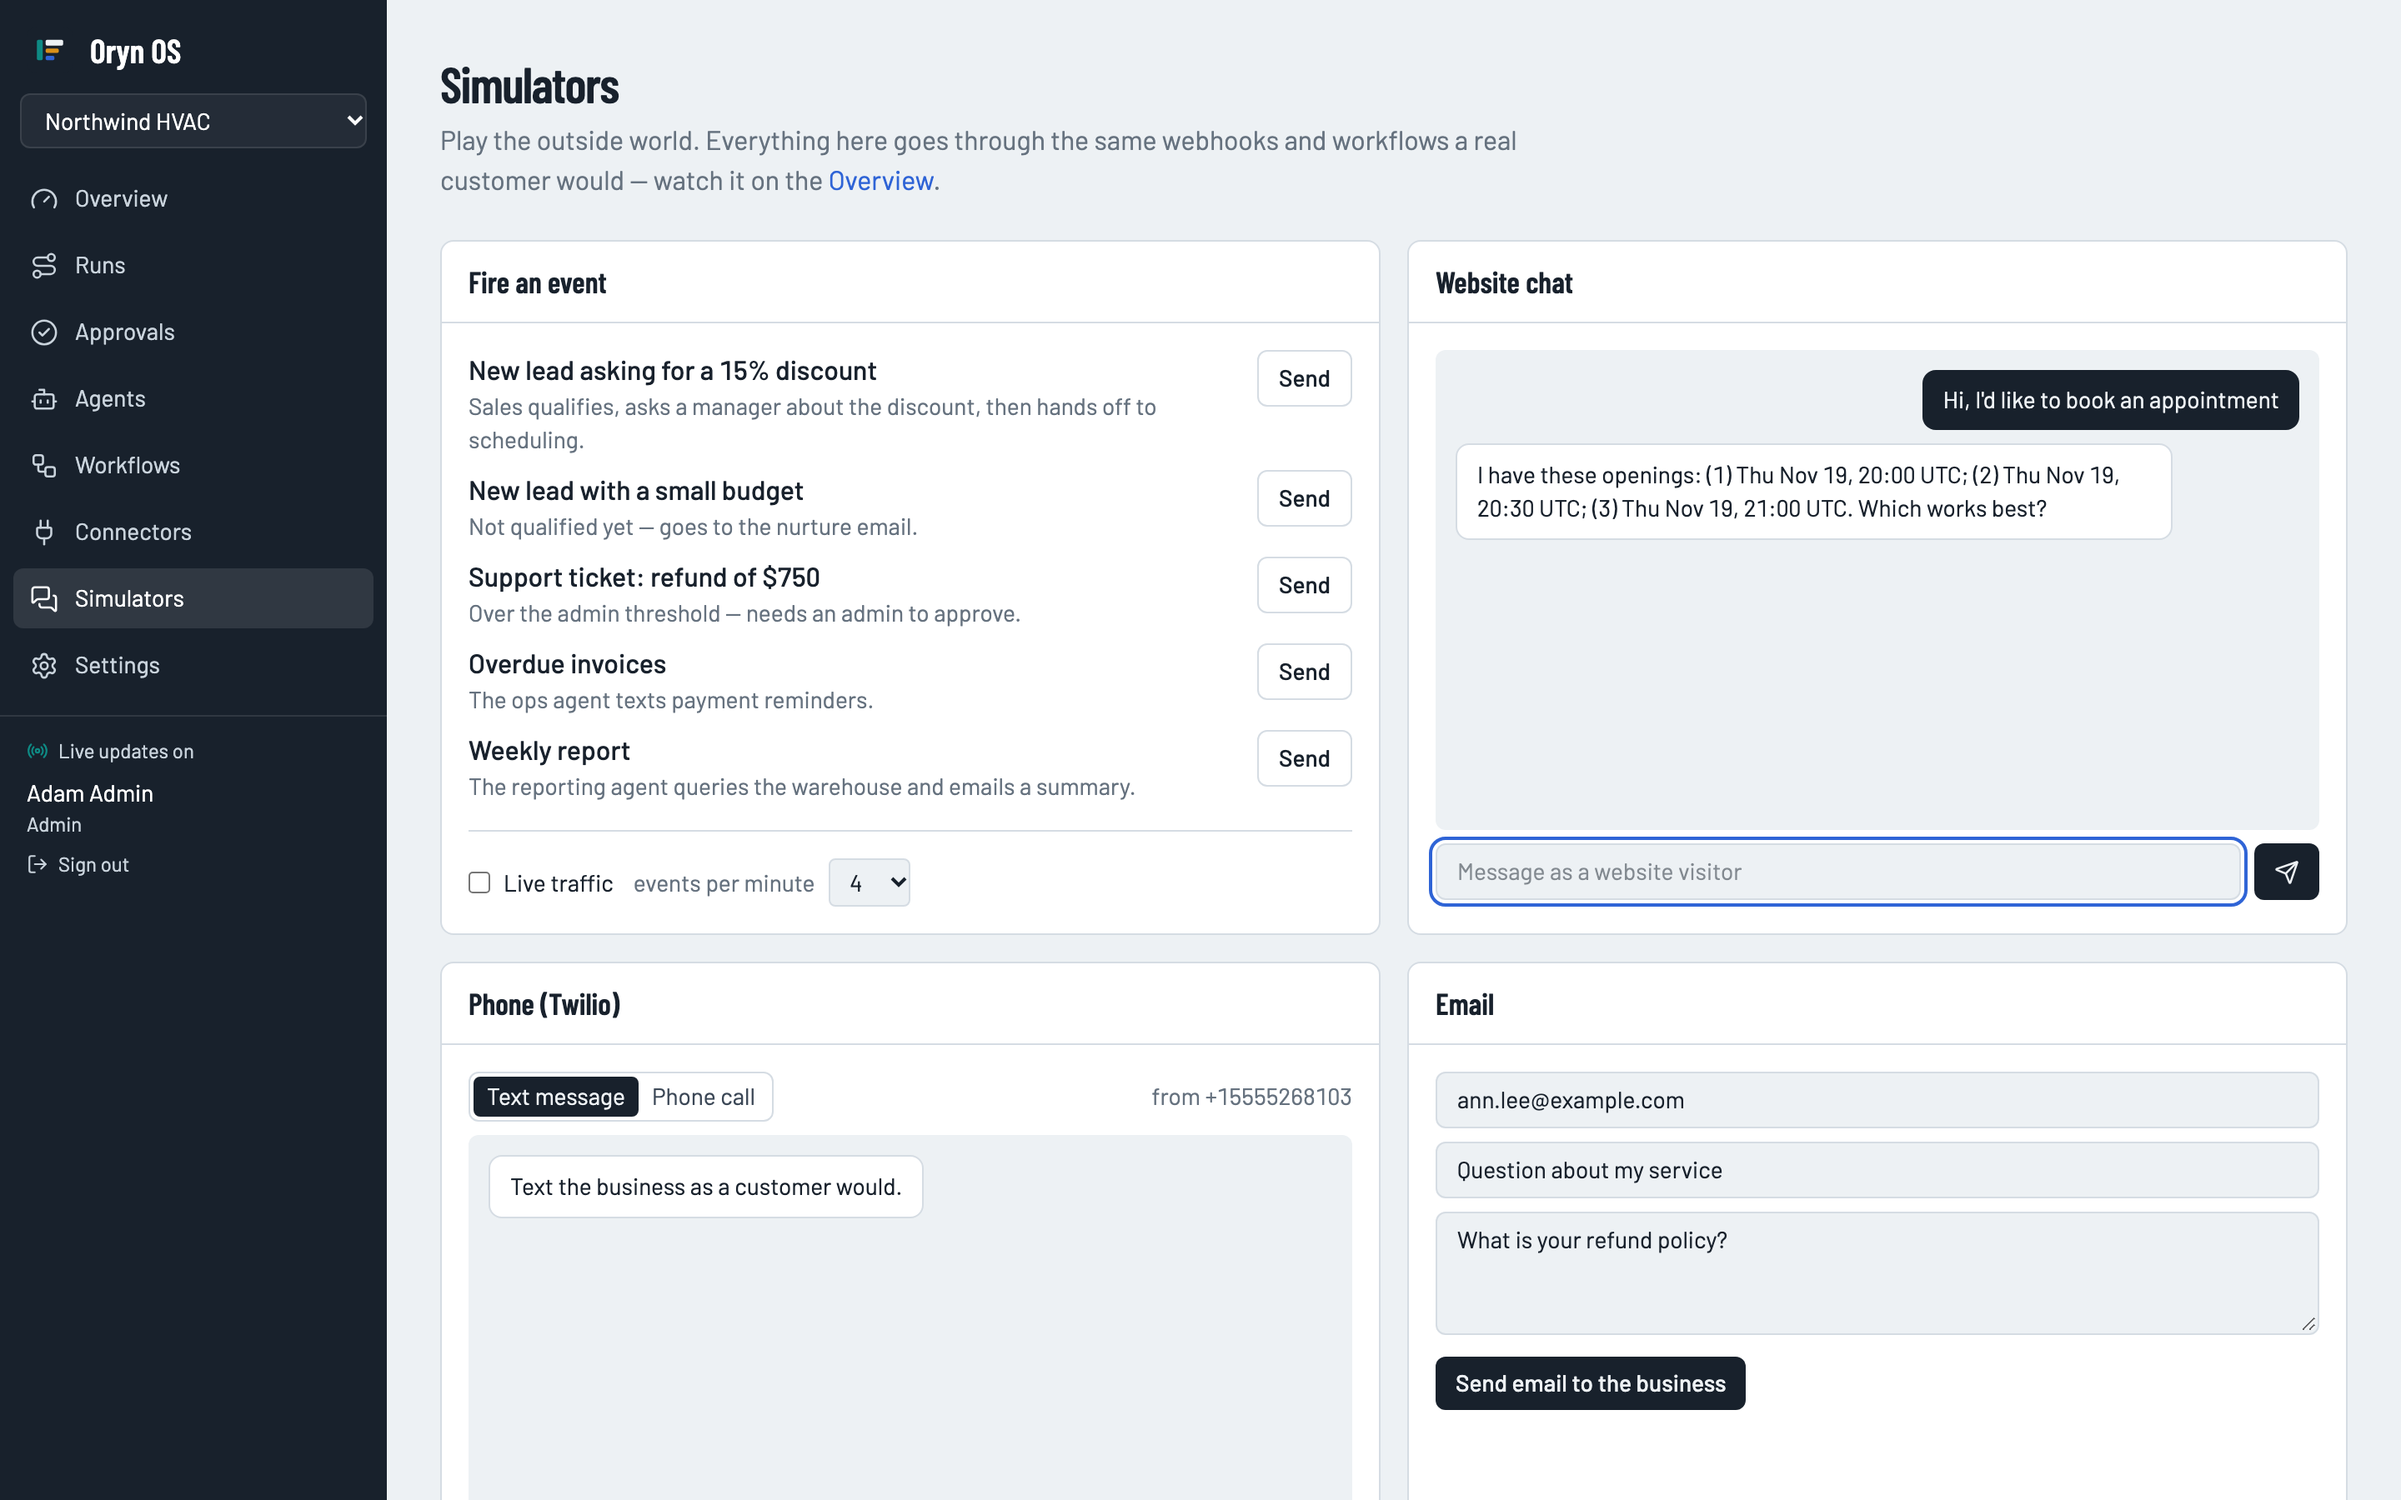
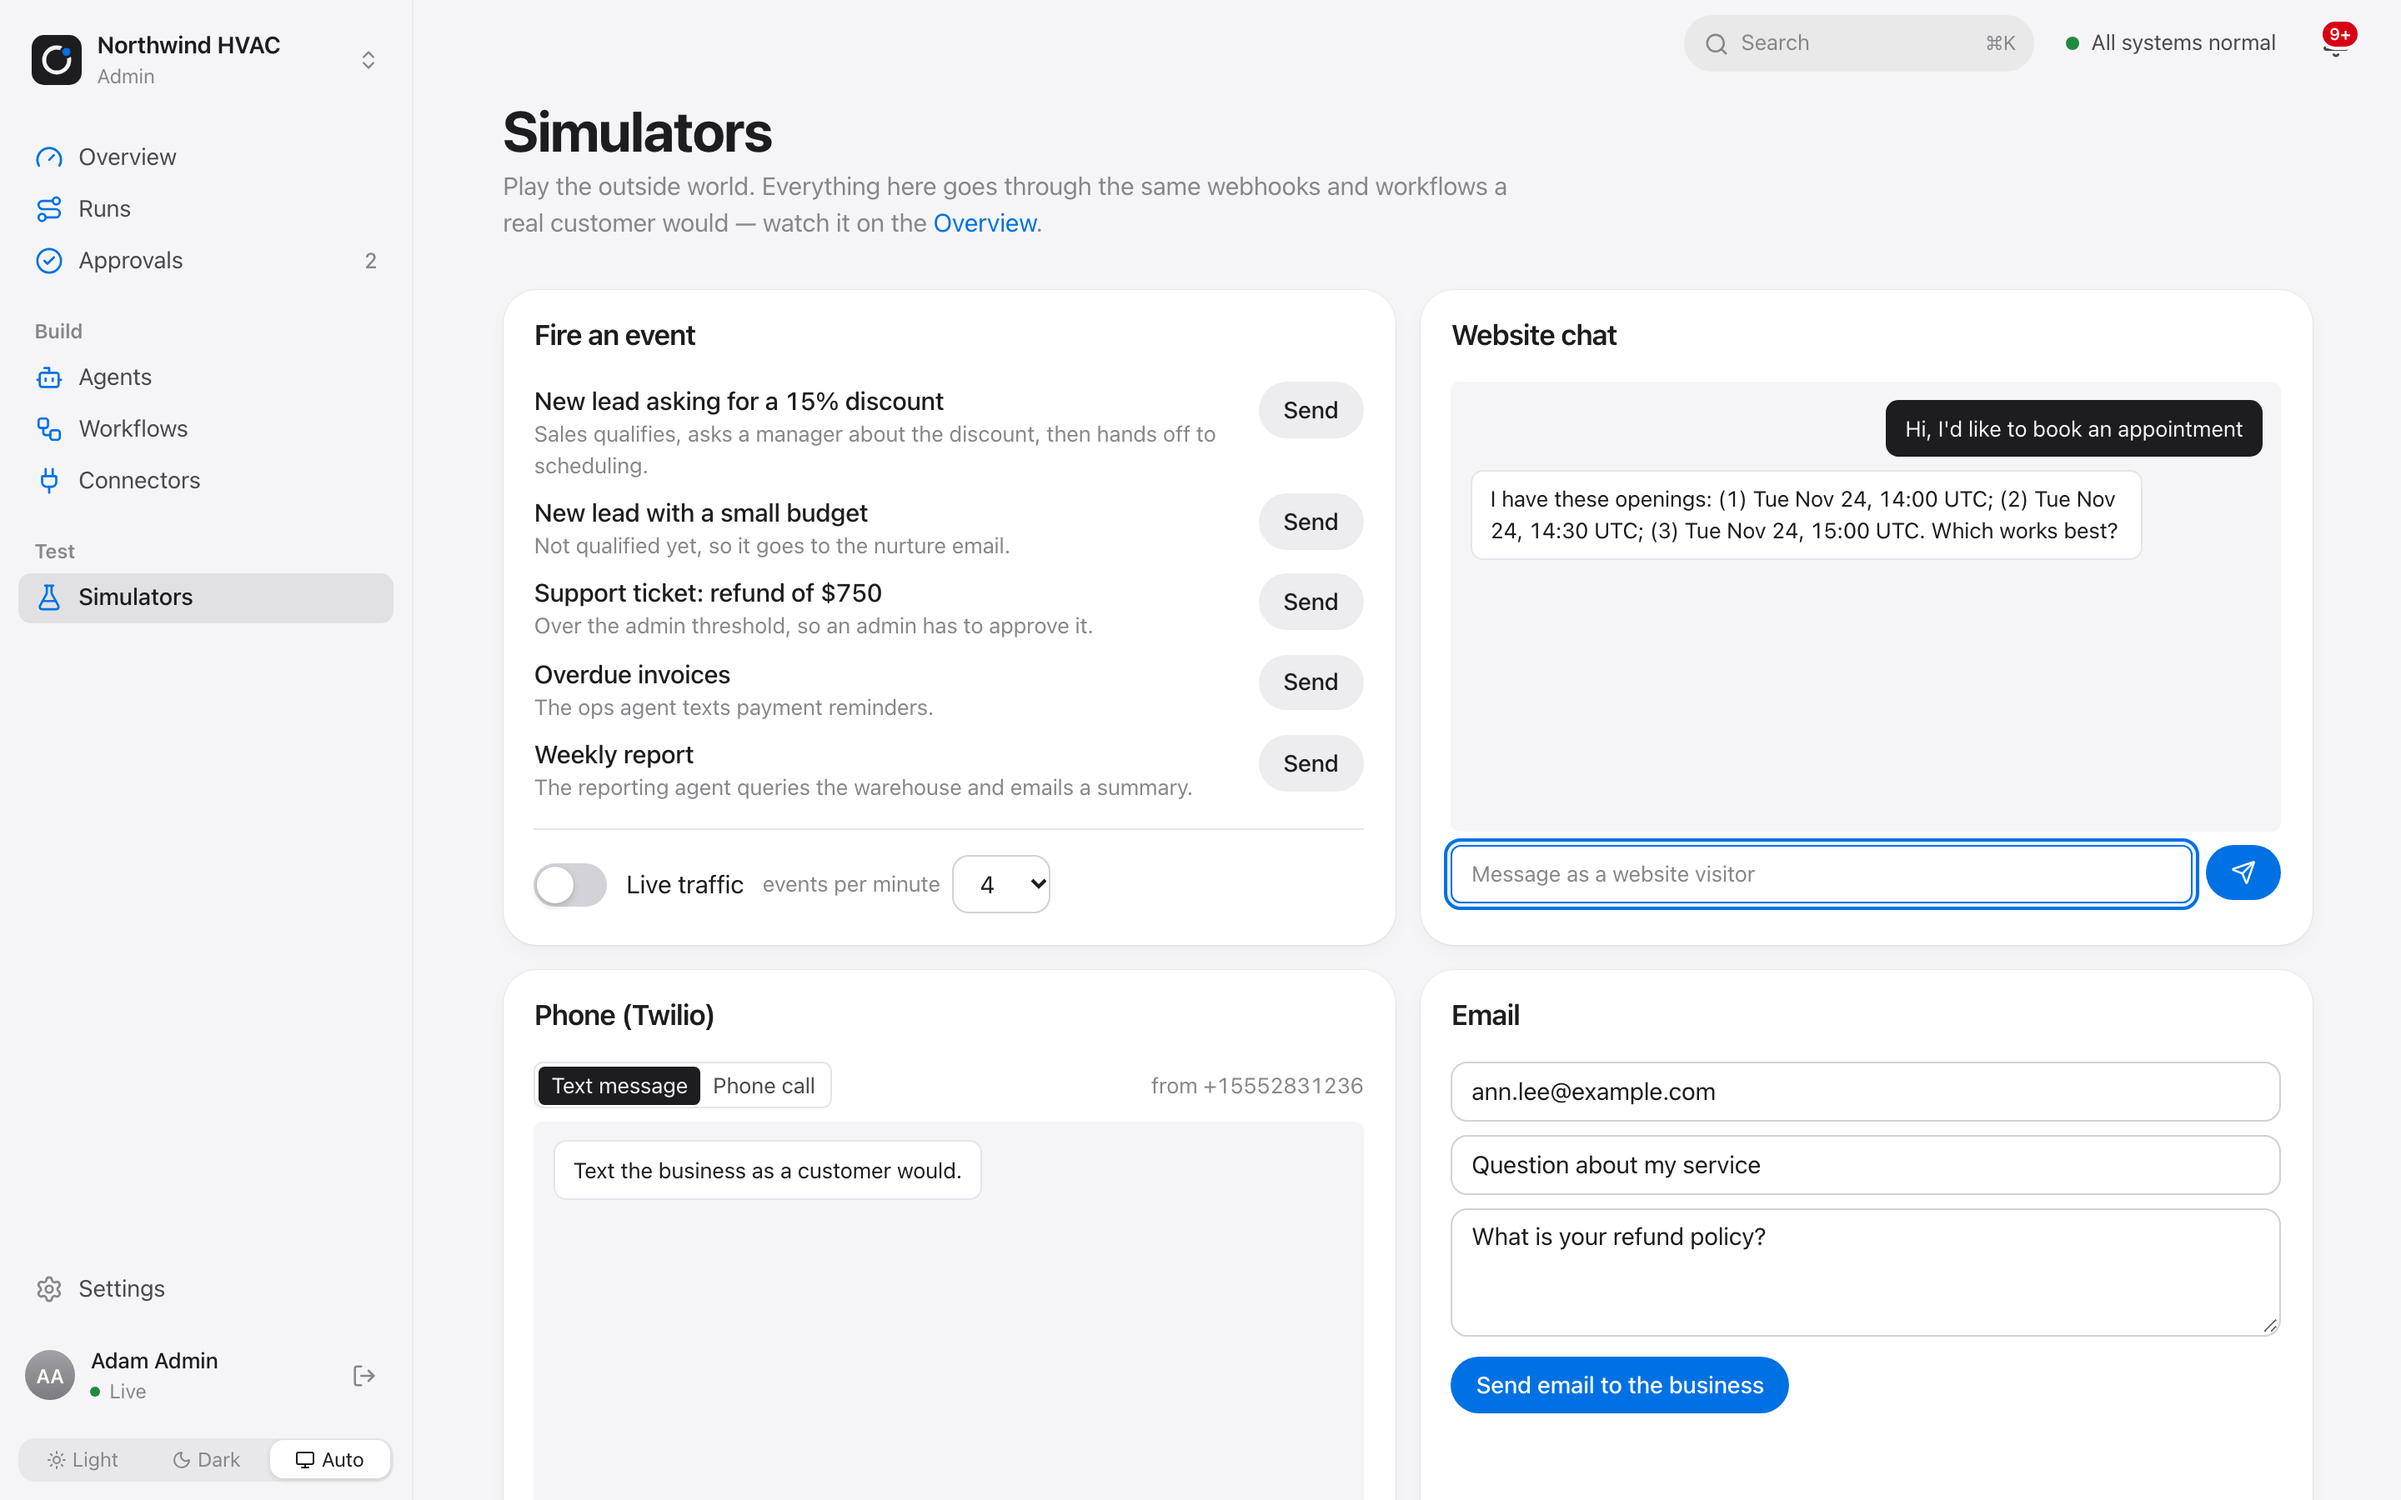
docs: new screenshots and README for the redesign and operator tools

diff --git a/README.md b/README.md
@@ -10,6 +10,8 @@ anything risky happens.
 It runs **fully offline with one command and no API keys**. Real providers (Claude, Twilio, SMTP)
 switch on with environment variables.
 
+![Oryn OS landing page with the interactive demo waiting for an approval](docs/screenshots/landing.png)
+
 ![Overview dashboard](docs/screenshots/overview-light.png)
 
 ## Quickstart
@@ -20,7 +22,8 @@ Requirements: Docker (with Compose v2). Nothing else.
 make up
 ```
 
-Then open **http://localhost:5173** and sign in as `owner@northwind.test` / `oryn-demo`.
+Then open **http://localhost:5173**. The landing page runs a small interactive demo; *Open the live
+demo* signs you in (`owner@northwind.test` / `oryn-demo`).
 
 `make up` builds the images, migrates the database, starts Postgres, Redis, Temporal, the API, the
 worker and the web app, and starts generating **two weeks of history by actually running the
@@ -59,7 +62,9 @@ Password for every demo account: `oryn-demo` (local demo only).
 | **MCP** | An MCP server exposes a tenant's tools to any MCP client, with the same approval controls. |
 | **Tenant isolation** | Postgres row-level security on every tenant table; the runtime database role cannot bypass it, cannot change its own tenant setting, and the agents' SQL tool runs under a narrower read-only role. |
 | **RBAC and audit** | viewer, operator, admin and owner roles; role-gated approvals; no self-approval; an audit log of privileged actions. |
-| **Central dashboard** | Live run board, execution traces with tokens/cost/retries, approvals inbox, completion rates, cost, and business impact (meetings, pipeline, hours saved, return on model cost). |
+| **Central dashboard** | Live route board (each run drawn as the agents it passed through), execution traces with a time axis, tokens, cost and retries, an approvals queue, completion rates, cost, and business impact (meetings, pipeline, hours saved, return on model cost). |
+| **Operator tools** | Every overview metric is compared with the previous period of the same length (relative change for amounts, percentage points for rates, and lower-is-better for latency). Any finished run can be **re-run** from the event that started it, on its workflow's current version, idempotently per `Idempotency-Key` and audited. An **activity feed** collects failures, escalations, approval requests and decisions, and outcomes, with unread state. A **system status** check reports Postgres, Redis, Temporal and whether workers are polling, with latencies. |
+| **Keyboard-first UI** | A command menu (`⌘K`) that searches runs, pending approvals, agents and workflows server-side and runs actions (fire a test event, switch workspace, change theme); `G` then a letter to jump between pages; `J`/`K` through lists; `A`/`R` to approve or reject; `?` lists every shortcut. Light and dark themes. The dashboard uses the system typeface (SF Pro on Apple devices, with SF Rounded figures), grouped cards, translucent toolbars and a large title that collapses into the toolbar as you scroll. |
 
 ## Architecture
 
@@ -119,7 +124,7 @@ every message and a retry can never text a customer twice.
 
 ## Engineering
 
-- **Tests:** 239 backend tests (pytest against real Postgres and Redis; Temporal workflows on the SDK's time-skipping test server), 16 frontend tests (Vitest), and a Playwright end-to-end test of the golden path against the running stack.
+- **Tests:** 257 backend tests (pytest against real Postgres and Redis; Temporal workflows on the SDK's time-skipping test server), 23 frontend tests (Vitest), and a Playwright end-to-end test of the golden path against the running stack.
 - **Static checks:** ruff, mypy (clean), TypeScript strict, ESLint. CI runs all of it plus image builds ([.github/workflows/ci.yml](.github/workflows/ci.yml)).
 - **Chaos:** [scripts/chaos.sh](scripts/chaos.sh) kills the worker mid-step against the Docker stack and asserts the run completes with exactly one booking.
 - **Bugs found by running it for real**, each fixed with a regression test first (write-ups in [docs/interview-guide.md](docs/interview-guide.md#bugs-found-by-running-the-system)):
